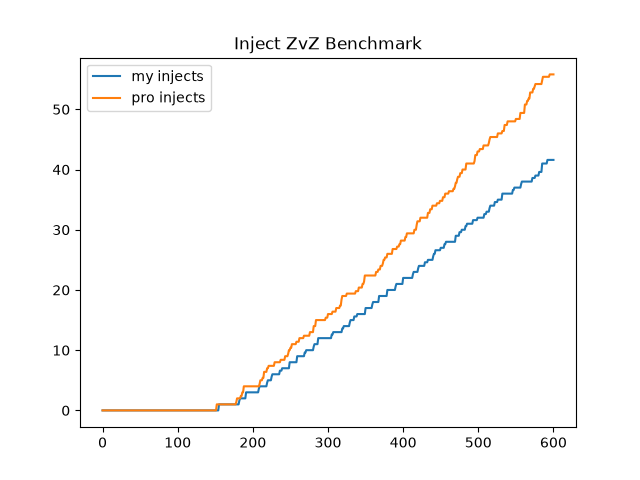
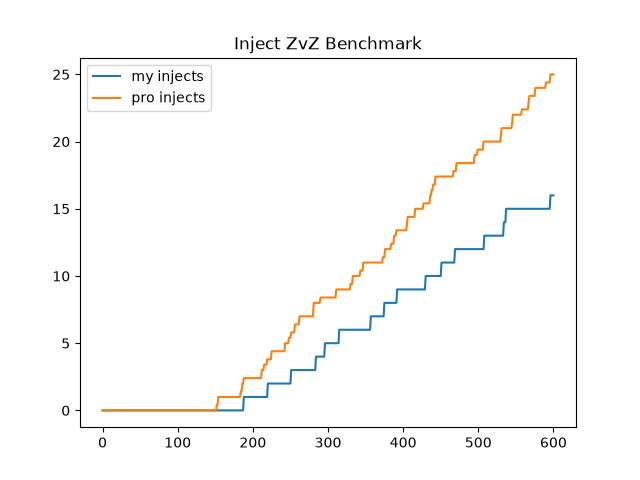
save

diff --git a/src/7_extract_my_unspent.py b/src/7_extract_my_unspent.py
@@ -1,0 +1,75 @@
+import sc2reader
+import pandas as pd
+import numpy as np
+import tqdm
+from glob import glob
+from utils import *
+
+all_dfs = []
+game_number = 0
+for account in ['sample']:
+    files = glob(f'../data/input/my_data/{account}/*')
+    for file in tqdm.tqdm(files):
+        
+        try:
+            replay = sc2reader.load_replay(file, load_map=True)
+        except Exception as e:
+            print(f"Failed to load {file}: {e}")
+            continue
+        if replay.map_name in ['Ruby Rock LE', 'Emerald City CE', 'Reclamation LE', 'Fields of Death', 'Gemgarden LE', 'New Bed of Chaos LE', 'Rhoskallian LE', 'Rust Bucket LE', 'Sludge City', 'Undercurrent LE', 'Yellowjacket', 'Phantom Mode']:
+            continue
+        game_number += 1
+        assert replay.map_name in ['valid_maps', "At Eternity's Edge LE", 'Blackrock LE', 'Fear and Faith LE', 'Rainfall LE', 'Sanctuary III LE', 'Lockdown LE', 'Washout LE', 'Rorschach LE', 'Old Sun Temple LE'], replay.map_name
+
+        is_valid_release = replay.release_string >= '5.0.16'
+        assert is_valid_release, replay.release_string
+        
+        player1 = 'nemo'
+        player2 = None
+        player1_won = None
+        player1_race = 'Zerg'
+        player2_race = None
+        for player in replay.players:
+            if player.name == 'nemo' or player.name == 'Kairo':
+                assert player.play_race == 'Zerg'
+                player1_won = player.result
+            else:
+                if player2 != None:
+                    raise Exception(player.name, player2)
+                player2 = player.name
+                player2_race = player.play_race
+        print(player1, player2, player1_race, player2_race)
+
+        inject_times_data = []
+        for event in replay.events:
+            seconds = event.frame / 22.4
+            minutes = int(seconds // 60)
+            remaining_seconds = int(seconds % 60)
+            if seconds < 1:
+                continue
+        
+            try:
+                if player2 in str(event):
+                    continue
+                if event.player == player2:
+                    continue
+            except:
+                pass
+        
+            if event.name == 'TargetUnitCommandEvent':
+                if event.ability == None:
+                    continue
+                if event.ability.name == 'SpawnLarva':
+                    inject_times_data.append(seconds)
+            if seconds > 10*60:
+                break
+        inject_times_df = pd.DataFrame()
+        inject_times_df['inject_time'] = inject_times_data
+        inject_times_df['game_number'] = game_number
+        inject_times_df['opponent_race'] = player2_race
+        inject_times_df['game_length_seconds_max_600'] = int(np.round(seconds,0))
+        inject_times_df['main_player_won'] = player1_won
+        inject_times_df = inject_times_df[['game_number', 'opponent_race', 'game_length_seconds_max_600', 'inject_time', 'main_player_won']]
+        all_dfs.append(inject_times_df)
+inject_times_df = pd.concat(all_dfs, axis='index', ignore_index=True)
+local.write.csv(inject_times_df, '3_extract_my_injects')

diff --git a/src/6_extract_pro_unspent.py b/src/6_extract_pro_unspent.py
@@ -1,0 +1,71 @@
+import sc2reader
+import pandas as pd
+import numpy as np
+import tqdm
+from utils import *
+from glob import glob
+
+game_number = 0
+files = glob('../data/input/pro_data/*')
+all_dfs = []
+for file in tqdm.tqdm(files):
+    game_number += 1
+    try:
+        replay = sc2reader.load_replay(file, load_map=True)
+    except Exception as e:
+        print(f"Failed to load {file}: {e}")
+        continue
+    
+    assert replay.map_name in ['valid_maps', "At Eternity's Edge LE", 'Blackrock LE', 'Fear and Faith LE', 'Rainfall LE', 'Sanctuary III LE', 'Lockdown LE', 'Washout LE', 'Rorschach LE', 'Old Sun Temple LE'], replay.map_name
+
+    is_valid_release = replay.release_string >= '5.0.16'
+    assert is_valid_release, replay.release_string
+    
+    player1 = 'Serral'
+    player2 = None
+    player1_won = None
+    player1_race = 'Zerg'
+    player2_race = None
+    for player in replay.players:
+        if player.name == 'Serral':
+            assert player.play_race == 'Zerg'
+            player1_won = player.result
+        else:
+            player2 = player.name
+            player2_race = player.play_race
+    print(player1, player2, player1_race, player2_race)
+    
+    inject_times_data = []
+    for event in replay.events:
+        seconds = event.frame / 22.4
+        minutes = int(seconds // 60)
+        remaining_seconds = int(seconds % 60)
+        if seconds < 1:
+            continue
+    
+        try: 
+            if player2 in str(event):
+                continue           
+            if event.player == player2:
+                continue
+        except:
+            pass
+        
+    
+        if event.name == 'TargetUnitCommandEvent':
+            if event.ability == None:
+                continue
+            if event.ability.name == 'SpawnLarva':
+                inject_times_data.append(seconds)
+        if seconds > 10*60:
+            break
+    inject_times_df = pd.DataFrame()
+    inject_times_df['inject_time'] = inject_times_data
+    inject_times_df['game_number'] = game_number
+    inject_times_df['opponent_race'] = player2_race
+    inject_times_df['game_length_seconds_max_600'] = int(np.round(seconds,0))
+    inject_times_df['main_player_won'] = player1_won
+    inject_times_df = inject_times_df[['game_number', 'opponent_race', 'game_length_seconds_max_600', 'inject_time']]
+    all_dfs.append(inject_times_df)
+inject_times_df = pd.concat(all_dfs, axis='index', ignore_index=True)
+local.write.csv(inject_times_df, '2_extract_pro_injects')

diff --git a/src/8_transform_unspent.py b/src/8_transform_unspent.py
@@ -1,0 +1,52 @@
+import pandas as pd
+from utils import *
+import matplotlib.pyplot as plt
+
+pro_df = local.read.csv('2_extract_pro_injects', 'interim')
+pro_df = pro_df.query("game_length_seconds_max_600 >= 420")
+my_df = local.read.csv('3_extract_my_injects', 'interim')
+my_df = my_df.query("game_length_seconds_max_600 >= 420")
+print("shape", pro_df.shape, my_df.shape)
+
+dfs = []
+for game_number in pro_df.game_number.unique():
+    pro_df_one_game = pro_df.query(f'game_number == {game_number}')
+    print(pro_df_one_game)
+
+    data_i = []
+    cumulative_count = []
+    for i in range(0, 601):
+        data_i.append(i)
+        cumulative_count.append(pro_df_one_game.query(f'inject_time < {i}').shape[0])
+    pro_data_cumulative_df = pd.DataFrame()
+    pro_data_cumulative_df['second'] = data_i
+    pro_data_cumulative_df['game_number'] = game_number
+    pro_data_cumulative_df['inject_count'] = cumulative_count
+    pro_data_cumulative_df['opponent_race'] = pro_df_one_game.iloc[0]['opponent_race']
+    dfs.append(pro_data_cumulative_df)
+pro_df = pd.concat(dfs, axis='index', ignore_index=True)
+local.write.csv(pro_df, '4_pro_inject_transform')
+
+
+dfs = []
+for game_number in my_df.game_number.unique():
+    my_df_one_game = my_df.query(f'game_number == {game_number}')
+    print(my_df_one_game)
+
+    data_i = []
+    cumulative_count = []
+    for i in range(0, 601):
+        data_i.append(i)
+        cumulative_count.append(my_df_one_game.query(f'inject_time < {i}').shape[0])
+    my_data_cumulative_df = pd.DataFrame()
+    my_data_cumulative_df['second'] = data_i
+    my_data_cumulative_df['game_number'] = game_number
+    my_data_cumulative_df['inject_count'] = cumulative_count
+    my_data_cumulative_df['opponent_race'] = my_df_one_game.iloc[0]['opponent_race']
+    dfs.append(my_data_cumulative_df)
+my_df = pd.concat(dfs, axis='index', ignore_index=True)
+local.write.csv(my_df, '4_my_inject_transform')
+
+
+# plt.plot(pro_data_cumulative_df.second, pro_data_cumulative_df.inject_count)
+# plt.savefig('../data/interim/4_pro_plot.png', dpi=300)
